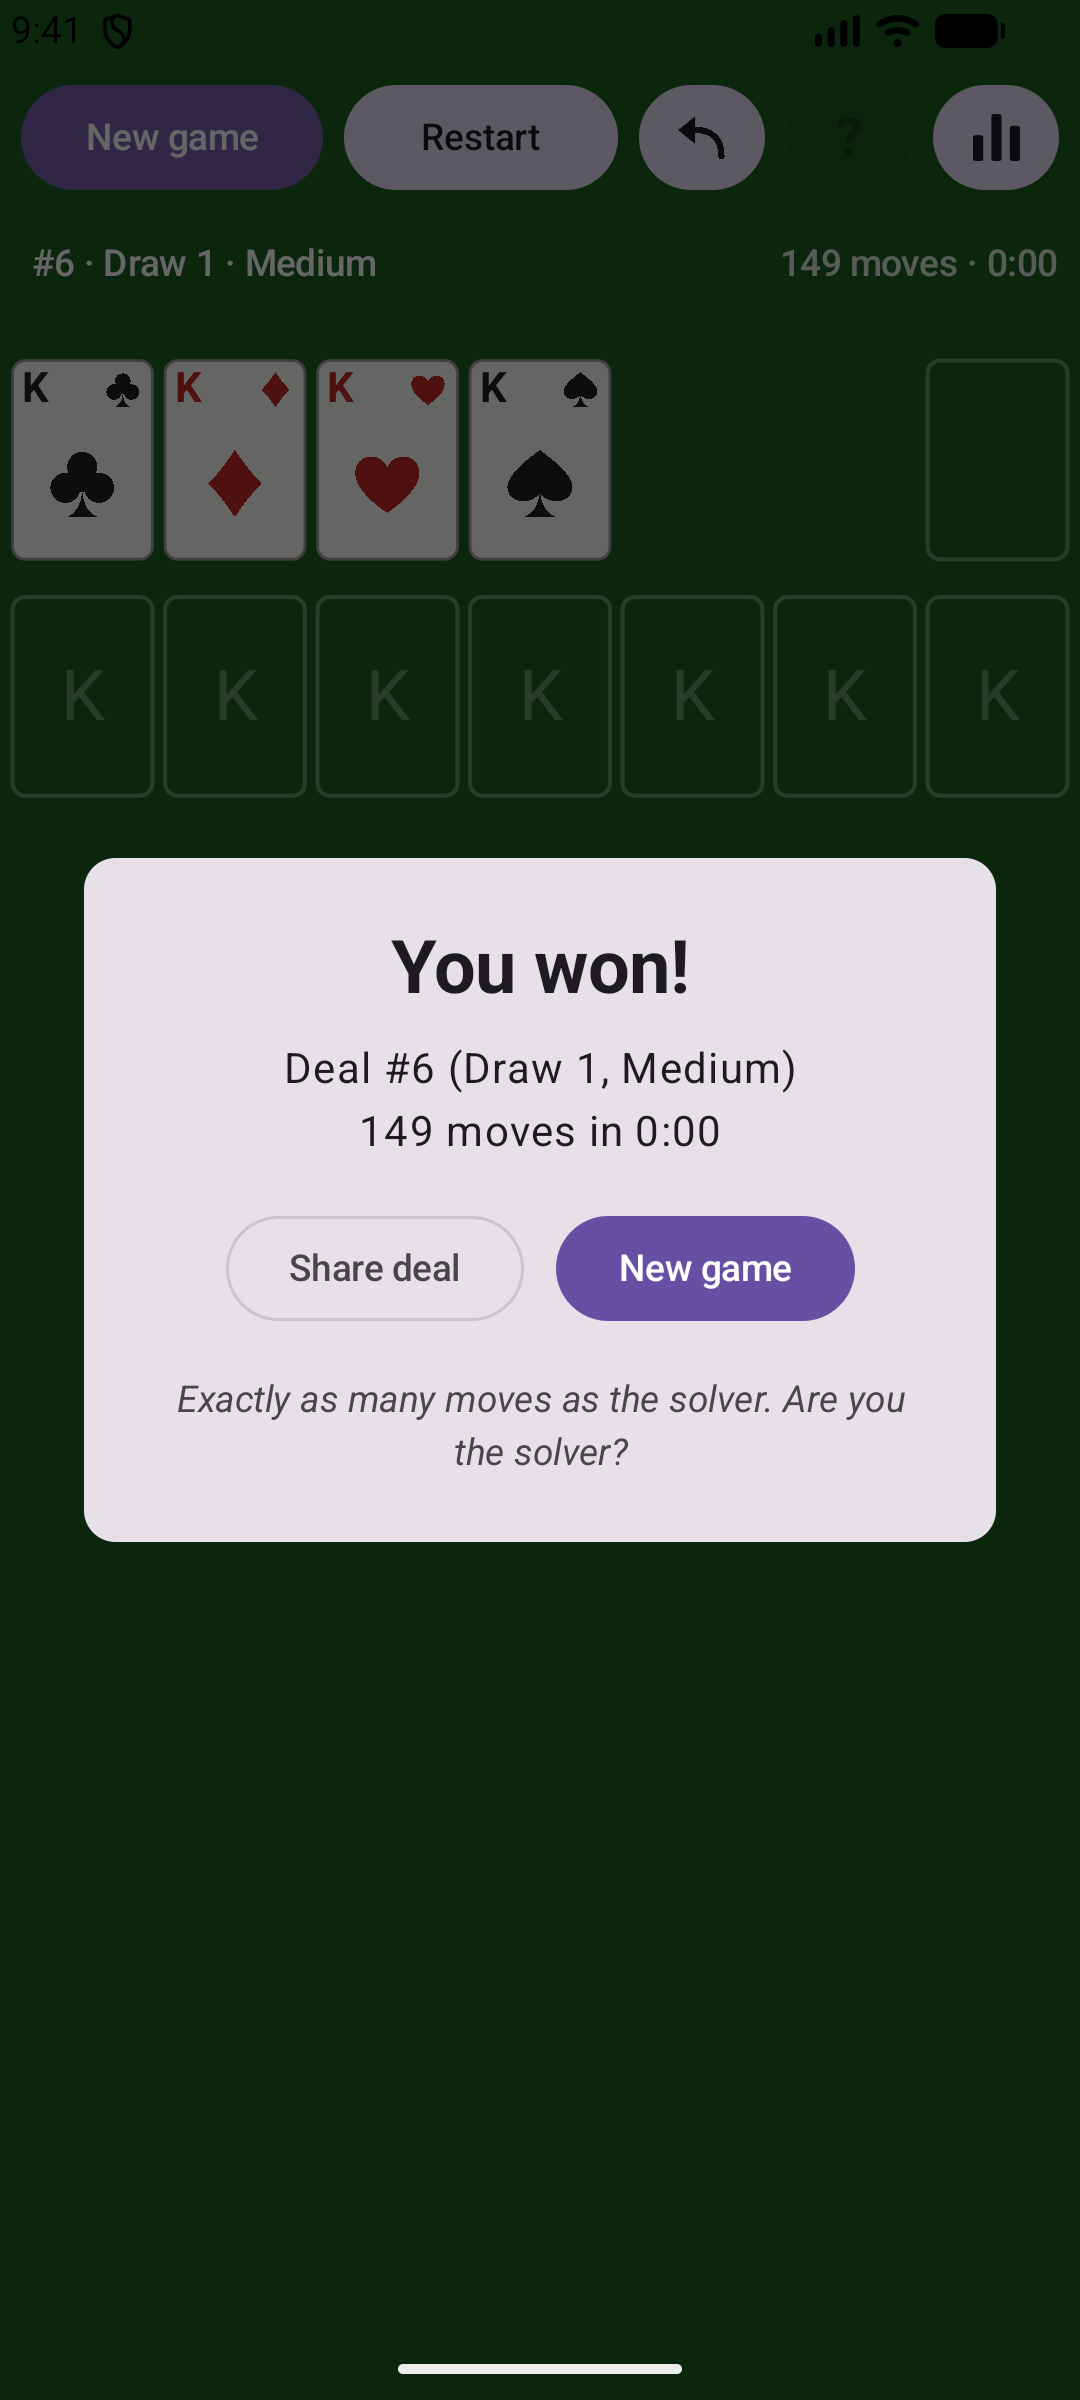
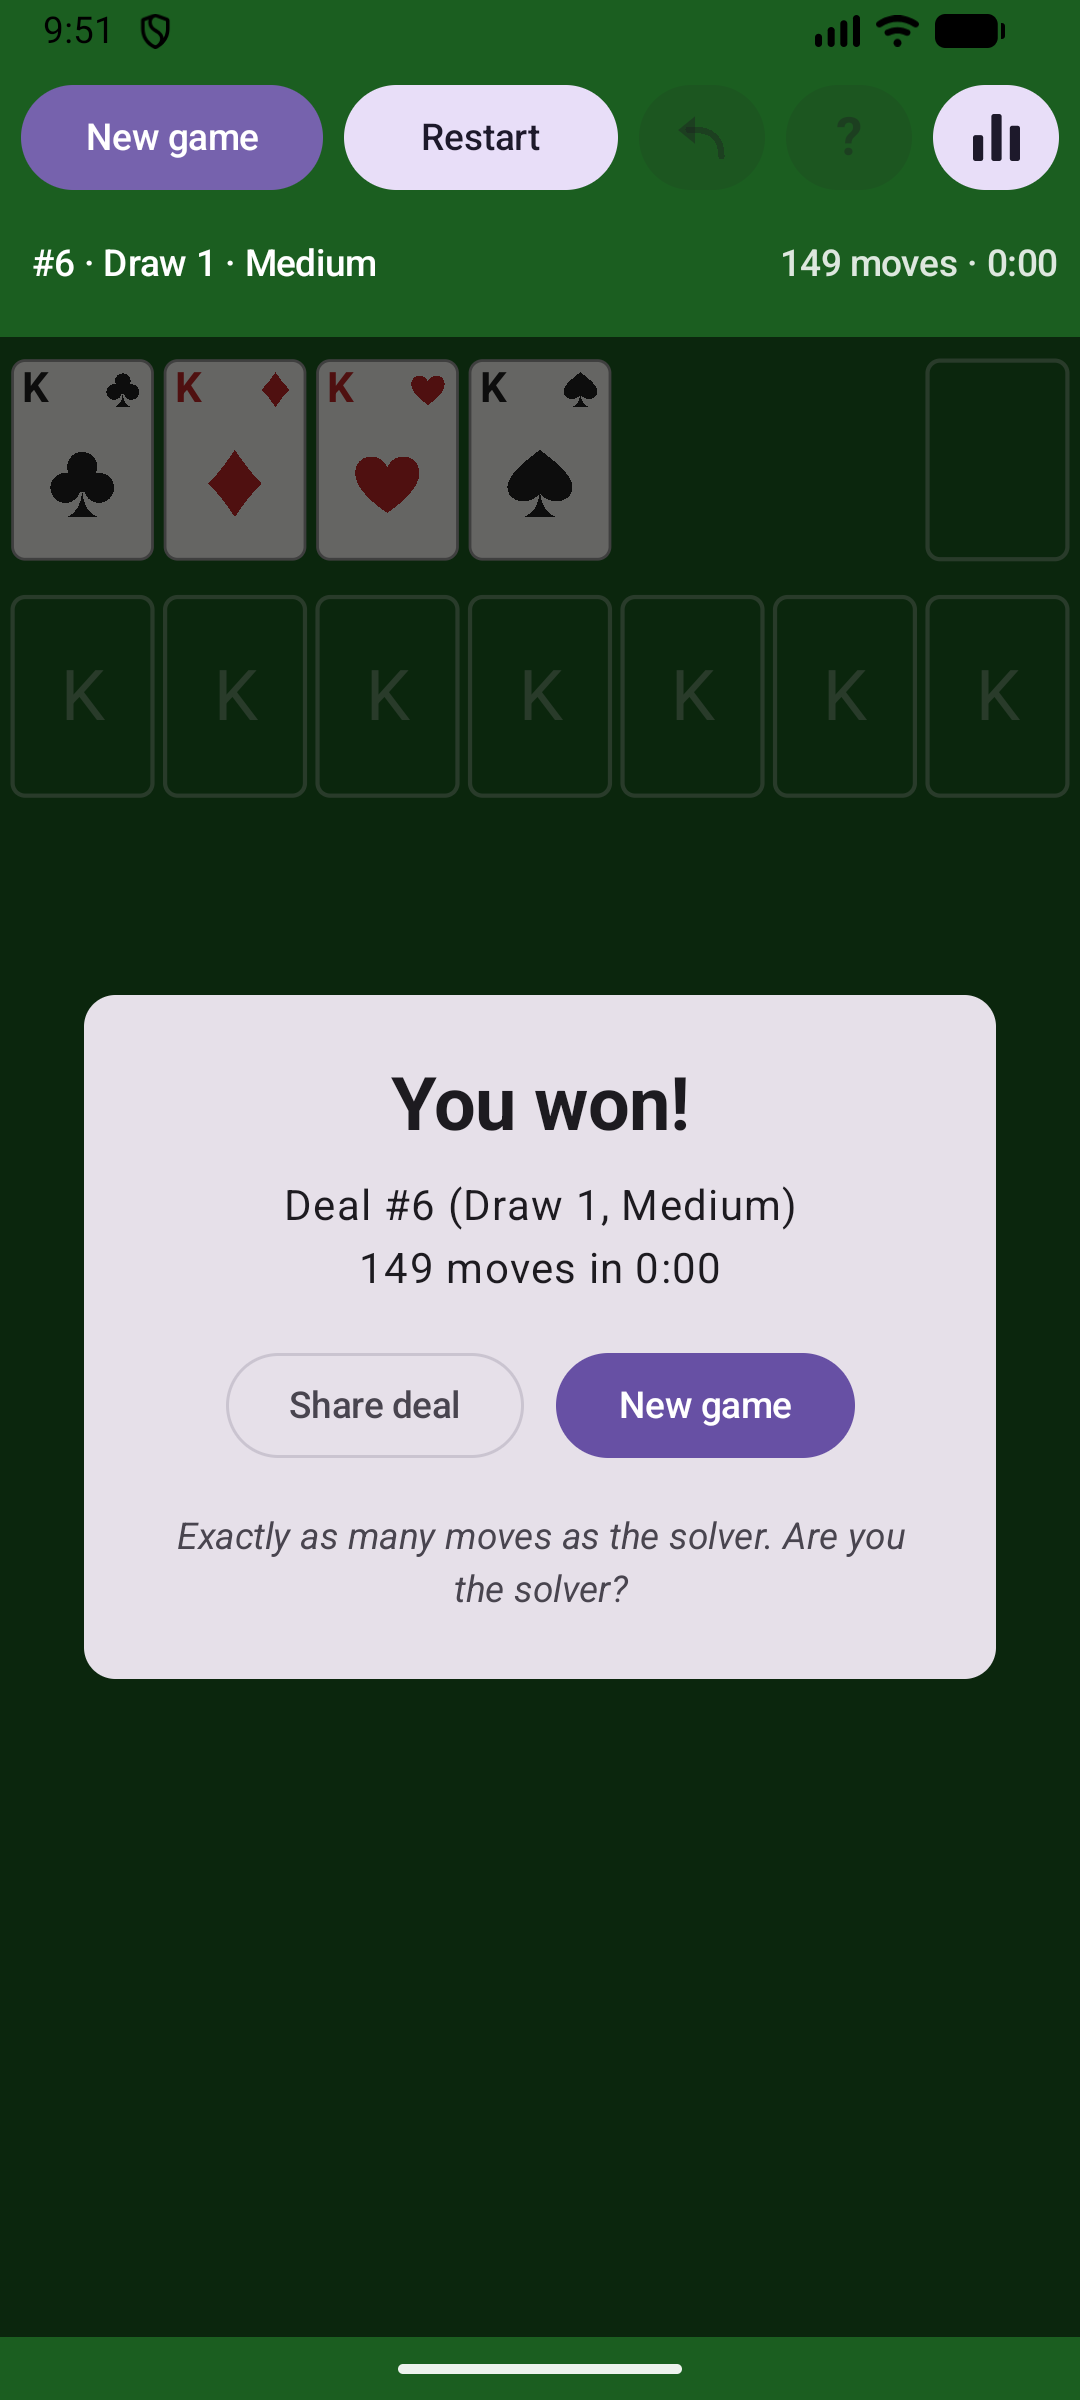
Win screen dims the board only; top bar stays usable
New game, Restart and Statistics stay active on the win screen; Undo is off
once the game is won (Hint already was). README win screenshot retaken.

Changed region(s): [[0.0611, 0.3438, 0.9472, 0.7188], [0.0, 0.0, 1.0, 0.1562], [0.0, 0.9688, 1.0, 1.0]]

diff --git a/app/src/main/kotlin/io/github/thomasvanriel/solitaire/ui/GameScreen.kt b/app/src/main/kotlin/io/github/thomasvanriel/solitaire/ui/GameScreen.kt
@@ -120,23 +120,36 @@ fun GameScreen(vm: GameViewModel, dark: Boolean) {
                 onShare = { showShare = true },
                 extra = { DebugTools.ExtraButtons(vm) },
             )
+            // Let the last cards finish sliding before the win screen covers them.
+            var winShown by remember { mutableStateOf(false) }
+            LaunchedEffect(ui.won, ui.busy) {
+                winShown = false
+                if (ui.won && !ui.busy) {
+                    delay(650)
+                    winShown = true
+                }
+            }
             val game = ui.game
             if (game == null || ui.loading) {
                 Box(Modifier.fillMaxSize(), contentAlignment = Alignment.Center) { CircularProgressIndicator(color = Color.White) }
             } else {
-                Board(
-                    game = game,
-                    enabled = !ui.busy && !ui.won,
-                    onStock = vm::tapStock,
-                    onTap = vm::tap,
-                    onDrop = { source, target -> vm.drop(source, target) },
-                    legalTargets = vm::legalTargets,
-                    seed = ui.seed,
-                    // Shorter while the game plays moves itself (auto-finish, debug autoplay).
-                    animationMillis = if (ui.busy) 70 else 170,
-                    modifier = Modifier.fillMaxSize().padding(top = 4.dp),
-                    hint = ui.hint,
-                )
+                // The win screen covers the board only, so the top bar stays usable.
+                Box(Modifier.fillMaxSize()) {
+                    Board(
+                        game = game,
+                        enabled = !ui.busy && !ui.won,
+                        onStock = vm::tapStock,
+                        onTap = vm::tap,
+                        onDrop = { source, target -> vm.drop(source, target) },
+                        legalTargets = vm::legalTargets,
+                        seed = ui.seed,
+                        // Shorter while the game plays moves itself (auto-finish, debug autoplay).
+                        animationMillis = if (ui.busy) 70 else 170,
+                        modifier = Modifier.fillMaxSize().padding(top = 4.dp),
+                        hint = ui.hint,
+                    )
+                    if (winShown && ui.won && !ui.busy) WinOverlay(ui, onNewGame = { showNewGame = true }, onShare = { showShare = true })
+                }
             }
         }
         Column(
@@ -152,16 +165,6 @@ fun GameScreen(vm: GameViewModel, dark: Boolean) {
             }
             if (ui.stuck && !ui.won) StuckBanner(ui.stuckLine, onUndo = vm::undo, onNewGame = { showNewGame = true })
         }
-        // Let the last cards finish sliding before the win screen covers them.
-        var winShown by remember { mutableStateOf(false) }
-        LaunchedEffect(ui.won, ui.busy) {
-            winShown = false
-            if (ui.won && !ui.busy) {
-                delay(650)
-                winShown = true
-            }
-        }
-        if (winShown && ui.won && !ui.busy) WinOverlay(ui, onNewGame = { showNewGame = true }, onShare = { showShare = true })
         // On top of everything, and lets every tap through.
         val popups by vm.achievementPopups.collectAsStateWithLifecycle()
         AchievementPopup(popups.firstOrNull(), onShown = vm::achievementShown, modifier = Modifier.align(Alignment.TopCenter))
@@ -228,7 +231,7 @@ private fun TopBar(
             FilledTonalButton(onClick = onRestart, enabled = hasMoves, modifier = Modifier.weight(1f), contentPadding = pad) {
                 Text("Restart", maxLines = 1)
             }
-            IconTopButton("Undo", onUndo, enabled = hasMoves) { UndoIcon() }
+            IconTopButton("Undo", onUndo, enabled = hasMoves && !ui.won) { UndoIcon() }
             IconTopButton("Hint", onHint, enabled = canHint) {
                 Text("?", fontWeight = FontWeight.Bold, fontSize = 20.sp)
             }

diff --git a/docs/DESIGN.md b/docs/DESIGN.md
@@ -201,7 +201,8 @@ Tier cut-offs (`Difficulty.tierFor`), calibrated from the distribution over winn
   a King; Spider/Scorpion: same-suit card, any card, empty column). Drag highlights legal targets.
 - Top bar: New game and Restart as text buttons; Undo, Hint and Statistics as small icon buttons drawn on a
   Canvas (no icon library), each with a content description. The second row has the deal (tap to share)
-  and the move count and clock.
+  and the move count and clock. The win screen dims the board only: New game, Restart and Statistics stay
+  usable, while Undo and Hint are off once the game is won.
 - `ui/MoveAnimation`: 170 ms per move (70 ms while autoplaying). Undo, Restart and New game are instant.
 - `ui/FeltSurprise`: a faint swirl on the felt on about 1 deal in 25, chosen by a hash of the deal number.
 - The fun bits (`extras/`, pure Kotlin, tested by `:extras:test`): `Fortunes` (win line), `Greetings`
@@ -224,5 +225,4 @@ Tier cut-offs (`Difficulty.tierFor`), calibrated from the distribution over winn
 - The Spider difficulty player rarely wins, so Spider tiers rest on progress rather than wins.
 - In landscape, a Spider column with 15 or more face-up cards is tight.
 - After debug autoplay the win screen time can read 0:00.
-- Undo still works through the win screen.
 - An autoplay intent sent while the app is open is dropped by Android; use `am start -S`.
